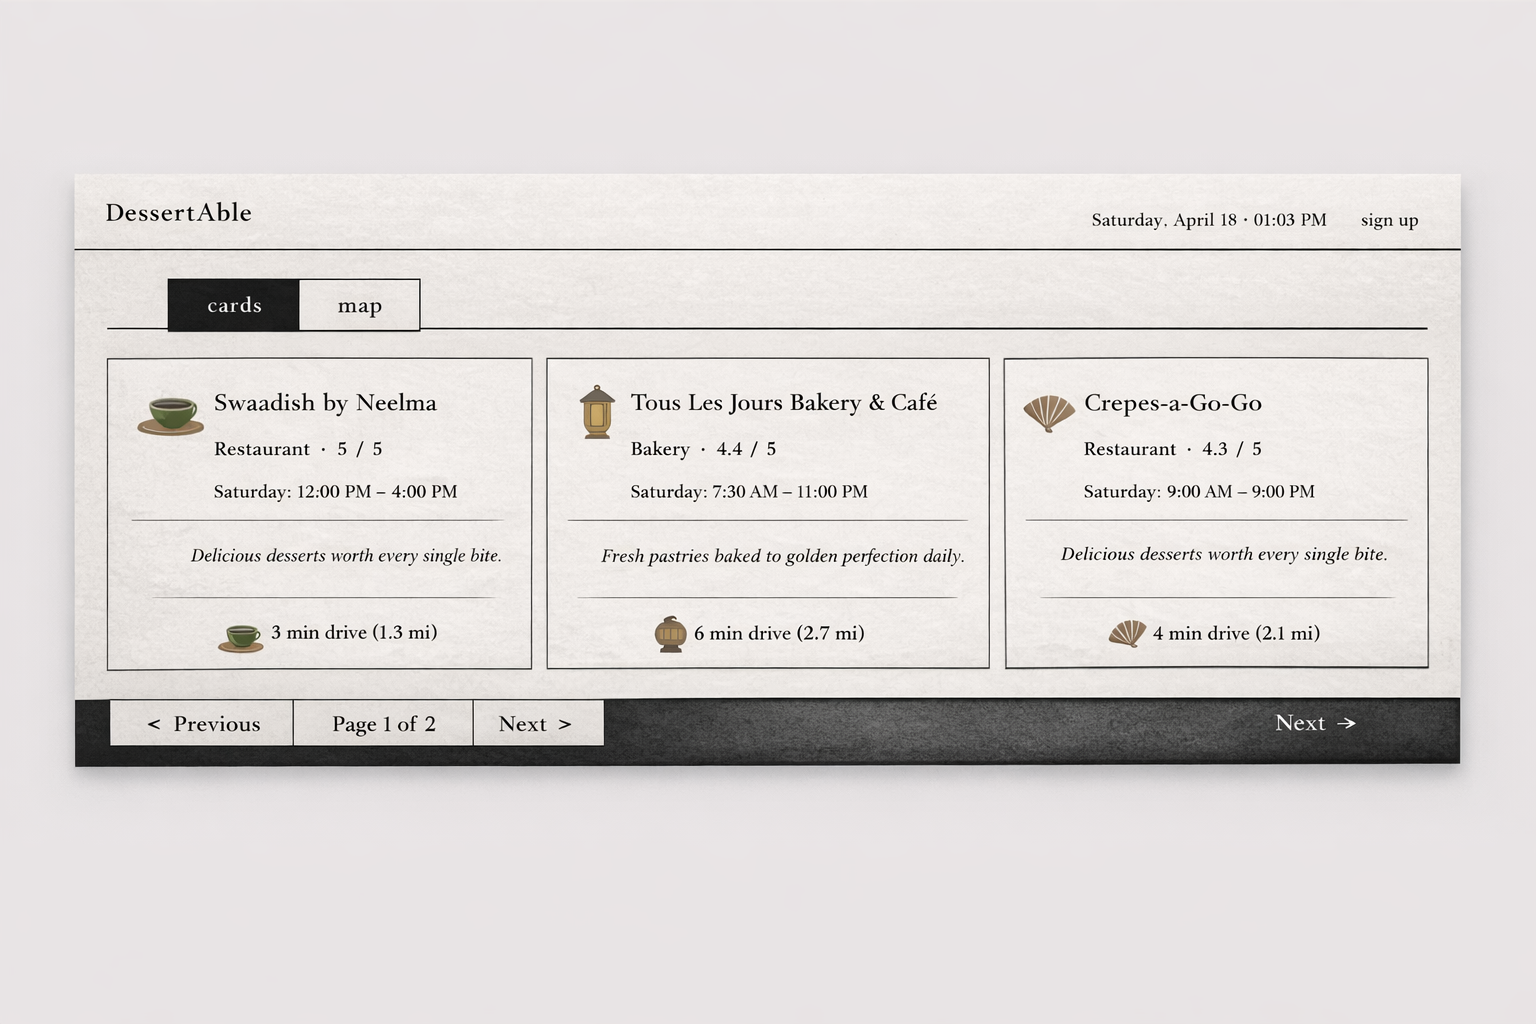
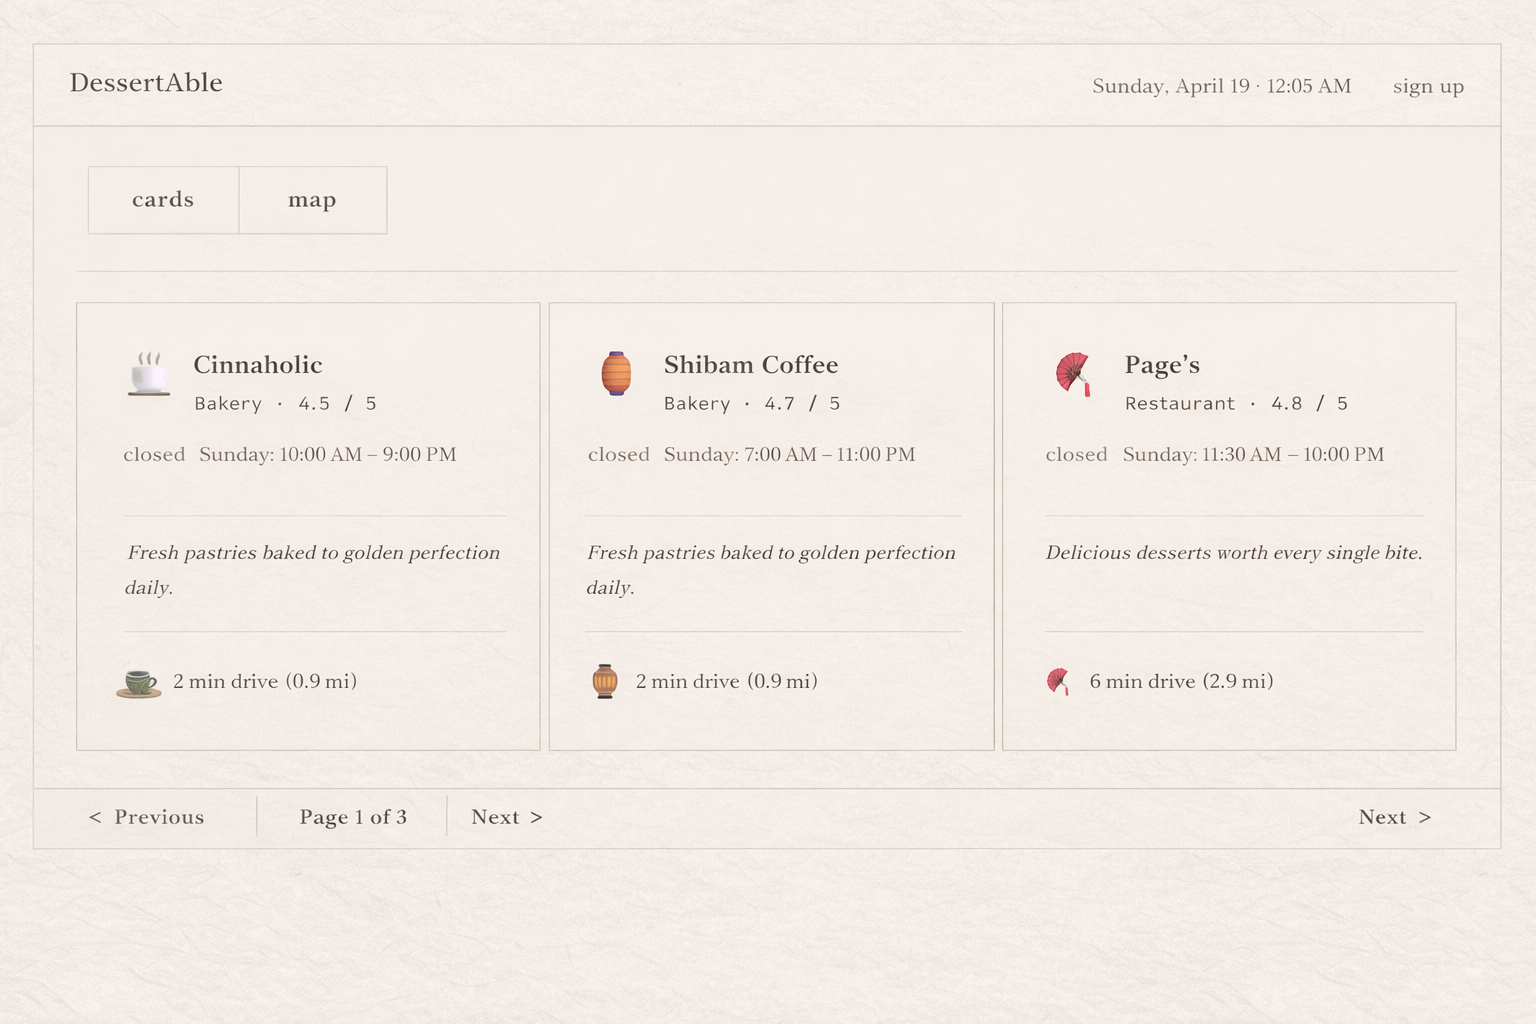
Security hardening and logging improvements
- routes.py: validate next= redirect target to prevent open redirect (urlparse check); use secrets.compare_digest for timing-safe admin password comparison; sanitize flash messages to avoid leaking internals; replace print() with structured logging throughout
- restaurant.py: use urllib.parse.quote_plus for URL encoding in get_google_maps_url; switch to logging.getLogger for error reporting
- deepseek_service.py: replace print() with logger.warning for AI description failures
- config.py: emit warnings.warn when SECRET_KEY is unset in dev so it doesn't silently use the insecure default
- database.py: minor date_func clarification comment

diff --git a/app/routes.py b/app/routes.py
@@ -1,7 +1,8 @@
 from flask import Blueprint, render_template, request, flash, current_app, redirect, url_for, jsonify, session
-import re
-import os
+import logging
+import secrets
 from datetime import datetime
+from urllib.parse import urlparse, urljoin
 from flask_login import login_user, logout_user, login_required, current_user
 
 from app.services.places_api import PlacesAPI, PlacesAPIError
@@ -9,9 +10,17 @@ from app.services.restaurant_service import RestaurantService
 from app.models.database import Database
 
 main_bp = Blueprint('main', __name__)
+logger = logging.getLogger(__name__)
 
 # Initialize database
 db = Database()
+
+
+def _is_safe_redirect(target: str) -> bool:
+    """Return True only if target is a relative path on the same host."""
+    ref = urlparse(request.host_url)
+    test = urlparse(urljoin(request.host_url, target))
+    return test.scheme in ('http', 'https') and ref.netloc == test.netloc
 
 
 @main_bp.route('/')
@@ -66,7 +75,7 @@ def search():
                 restaurants=restaurants
             )
         except Exception as e:
-            print(f"Warning: Failed to save search to database: {e}")
+            logger.warning("Failed to save search to database: %s", e)
 
         # Limit to top 9 results for display (3 pages of 3)
         total_found = len(restaurants)
@@ -87,10 +96,12 @@ def search():
         )
 
     except PlacesAPIError as e:
-        flash(f'Search error: {str(e)}', 'error')
+        logger.error("Places API error during search: %s", e)
+        flash('Search failed. Please check the address and try again.', 'error')
         return render_template('index.html')
     except Exception as e:
-        flash(f'An unexpected error occurred: {str(e)}', 'error')
+        logger.exception("Unexpected error during search")
+        flash('An unexpected error occurred. Please try again.', 'error')
         return render_template('index.html')
 
 
@@ -107,7 +118,8 @@ def history():
             stats=stats
         )
     except Exception as e:
-        flash(f'Error loading history: {str(e)}', 'error')
+        logger.error("Error loading history: %s", e)
+        flash('Error loading history. Please try again.', 'error')
         return render_template('index.html')
 
 
@@ -149,7 +161,8 @@ def view_search(search_id):
         )
 
     except Exception as e:
-        flash(f'Error loading search: {str(e)}', 'error')
+        logger.error("Error loading search %s: %s", search_id, e)
+        flash('Error loading search. Please try again.', 'error')
         return render_template('index.html')
 
 
@@ -240,9 +253,9 @@ def login():
         # Log in user
         login_user(user, remember=remember)
 
-        # Redirect to next page or index
+        # Redirect to next page or index (validate to prevent open redirect)
         next_page = request.args.get('next')
-        if next_page:
+        if next_page and _is_safe_redirect(next_page):
             return redirect(next_page)
         return redirect(url_for('main.index'))
 
@@ -285,7 +298,8 @@ def favorites():
         )
 
     except Exception as e:
-        flash(f'Error loading favorites: {str(e)}', 'error')
+        logger.error("Error loading favorites for user %s: %s", current_user.id, e)
+        flash('Error loading favorites. Please try again.', 'error')
         return redirect(url_for('main.index'))
 
 
@@ -315,7 +329,8 @@ def add_favorite_api():
             return jsonify({'success': False, 'error': 'Already in favorites'}), 409
 
     except Exception as e:
-        return jsonify({'success': False, 'error': str(e)}), 500
+        logger.error("Error adding favorite: %s", e)
+        return jsonify({'success': False, 'error': 'Internal server error'}), 500
 
 
 @main_bp.route('/api/favorites/remove', methods=['POST'])
@@ -337,7 +352,8 @@ def remove_favorite_api():
             return jsonify({'success': False, 'error': 'Not found in favorites'}), 404
 
     except Exception as e:
-        return jsonify({'success': False, 'error': str(e)}), 500
+        logger.error("Error removing favorite: %s", e)
+        return jsonify({'success': False, 'error': 'Internal server error'}), 500
 
 
 @main_bp.route('/api/favorites/note', methods=['POST'])
@@ -360,7 +376,8 @@ def update_favorite_note_api():
             return jsonify({'success': False, 'error': 'Favorite not found'}), 404
 
     except Exception as e:
-        return jsonify({'success': False, 'error': str(e)}), 500
+        logger.error("Error updating favorite note: %s", e)
+        return jsonify({'success': False, 'error': 'Internal server error'}), 500
 
 
 # ========== ADMIN ROUTES ==========
@@ -385,7 +402,7 @@ def admin_login():
             flash('Admin access is not configured. Set ADMIN_PASSWORD in environment variables.', 'error')
             return render_template('admin_login.html')
 
-        if password == admin_password:
+        if secrets.compare_digest(password.encode(), admin_password.encode()):
             session['is_admin'] = True
             flash('Admin access granted', 'success')
             return redirect(url_for('main.admin_dashboard'))
@@ -428,5 +445,6 @@ def admin_dashboard():
         )
 
     except Exception as e:
-        flash(f'Error loading admin dashboard: {str(e)}', 'error')
+        logger.exception("Error loading admin dashboard")
+        flash('Error loading admin dashboard. Please try again.', 'error')
         return redirect(url_for('main.index'))

diff --git a/app/services/deepseek_service.py b/app/services/deepseek_service.py
@@ -1,6 +1,9 @@
 from typing import List, Dict, Optional
+import logging
 import os
 from openai import OpenAI
+
+logger = logging.getLogger(__name__)
 
 
 class DeepSeekService:
@@ -87,7 +90,7 @@ Respond with ONLY the sentence, nothing else."""
             return description
 
         except Exception as e:
-            print(f"Warning: Failed to generate AI description for {restaurant_name}: {e}")
+            logger.warning("Failed to generate AI description for %s: %s", restaurant_name, e)
             return None
 
     def generate_long_description(self, restaurant_name: str, reviews: List[Dict]) -> Optional[str]:
@@ -154,5 +157,5 @@ Reviews:
             return description
 
         except Exception as e:
-            print(f"Warning: Failed to generate long description for {restaurant_name}: {e}")
+            logger.warning("Failed to generate long description for %s: %s", restaurant_name, e)
             return None

diff --git a/app/models/restaurant.py b/app/models/restaurant.py
@@ -73,7 +73,8 @@ class Restaurant:
         """Get Google Maps URL for this restaurant"""
         if self.url:
             return self.url
-        return f"https://www.google.com/maps/search/?api=1&query={self.name.replace(' ', '+')}&query_place_id={self.place_id}"
+        from urllib.parse import quote_plus
+        return f"https://www.google.com/maps/search/?api=1&query={quote_plus(self.name)}&query_place_id={self.place_id}"
 
     def get_price_display(self):
         """Get price level as dollar signs"""
@@ -187,8 +188,8 @@ class Restaurant:
             return None
 
         except Exception as e:
-            # Log error but don't break the app
-            print(f"Error checking if open: {e}")
+            import logging
+            logging.getLogger(__name__).warning("Error checking if open: %s", e)
             return None
 
     def get_current_day_index(self) -> int:

diff --git a/config.py b/config.py
@@ -7,7 +7,14 @@ load_dotenv()
 
 class Config:
     """Base configuration"""
-    SECRET_KEY = os.getenv('SECRET_KEY', 'dev-secret-key-change-in-production')
+    _secret_key = os.getenv('SECRET_KEY')
+    if not _secret_key:
+        import warnings
+        warnings.warn(
+            "SECRET_KEY not set — sessions are insecure. Add SECRET_KEY to your .env file.",
+            stacklevel=2
+        )
+    SECRET_KEY = _secret_key or 'dev-secret-key-change-in-production'
     GOOGLE_PLACES_API_KEY = os.getenv('GOOGLE_PLACES_API_KEY')
     ADMIN_PASSWORD = os.getenv('ADMIN_PASSWORD')  # Admin dashboard password
     INVITE_CODE = os.getenv('INVITE_CODE')  # Required for user registration

diff --git a/app/models/database.py b/app/models/database.py
@@ -518,6 +518,7 @@ class Database:
         # Date thresholds
         date_7_days = self.date_interval(7)
         date_30_days = self.date_interval(30)
+        date_func = 'DATE'  # both SQLite and PostgreSQL support DATE() for day truncation
 
         # User statistics
         cursor.execute('SELECT COUNT(*) as cnt FROM users')
